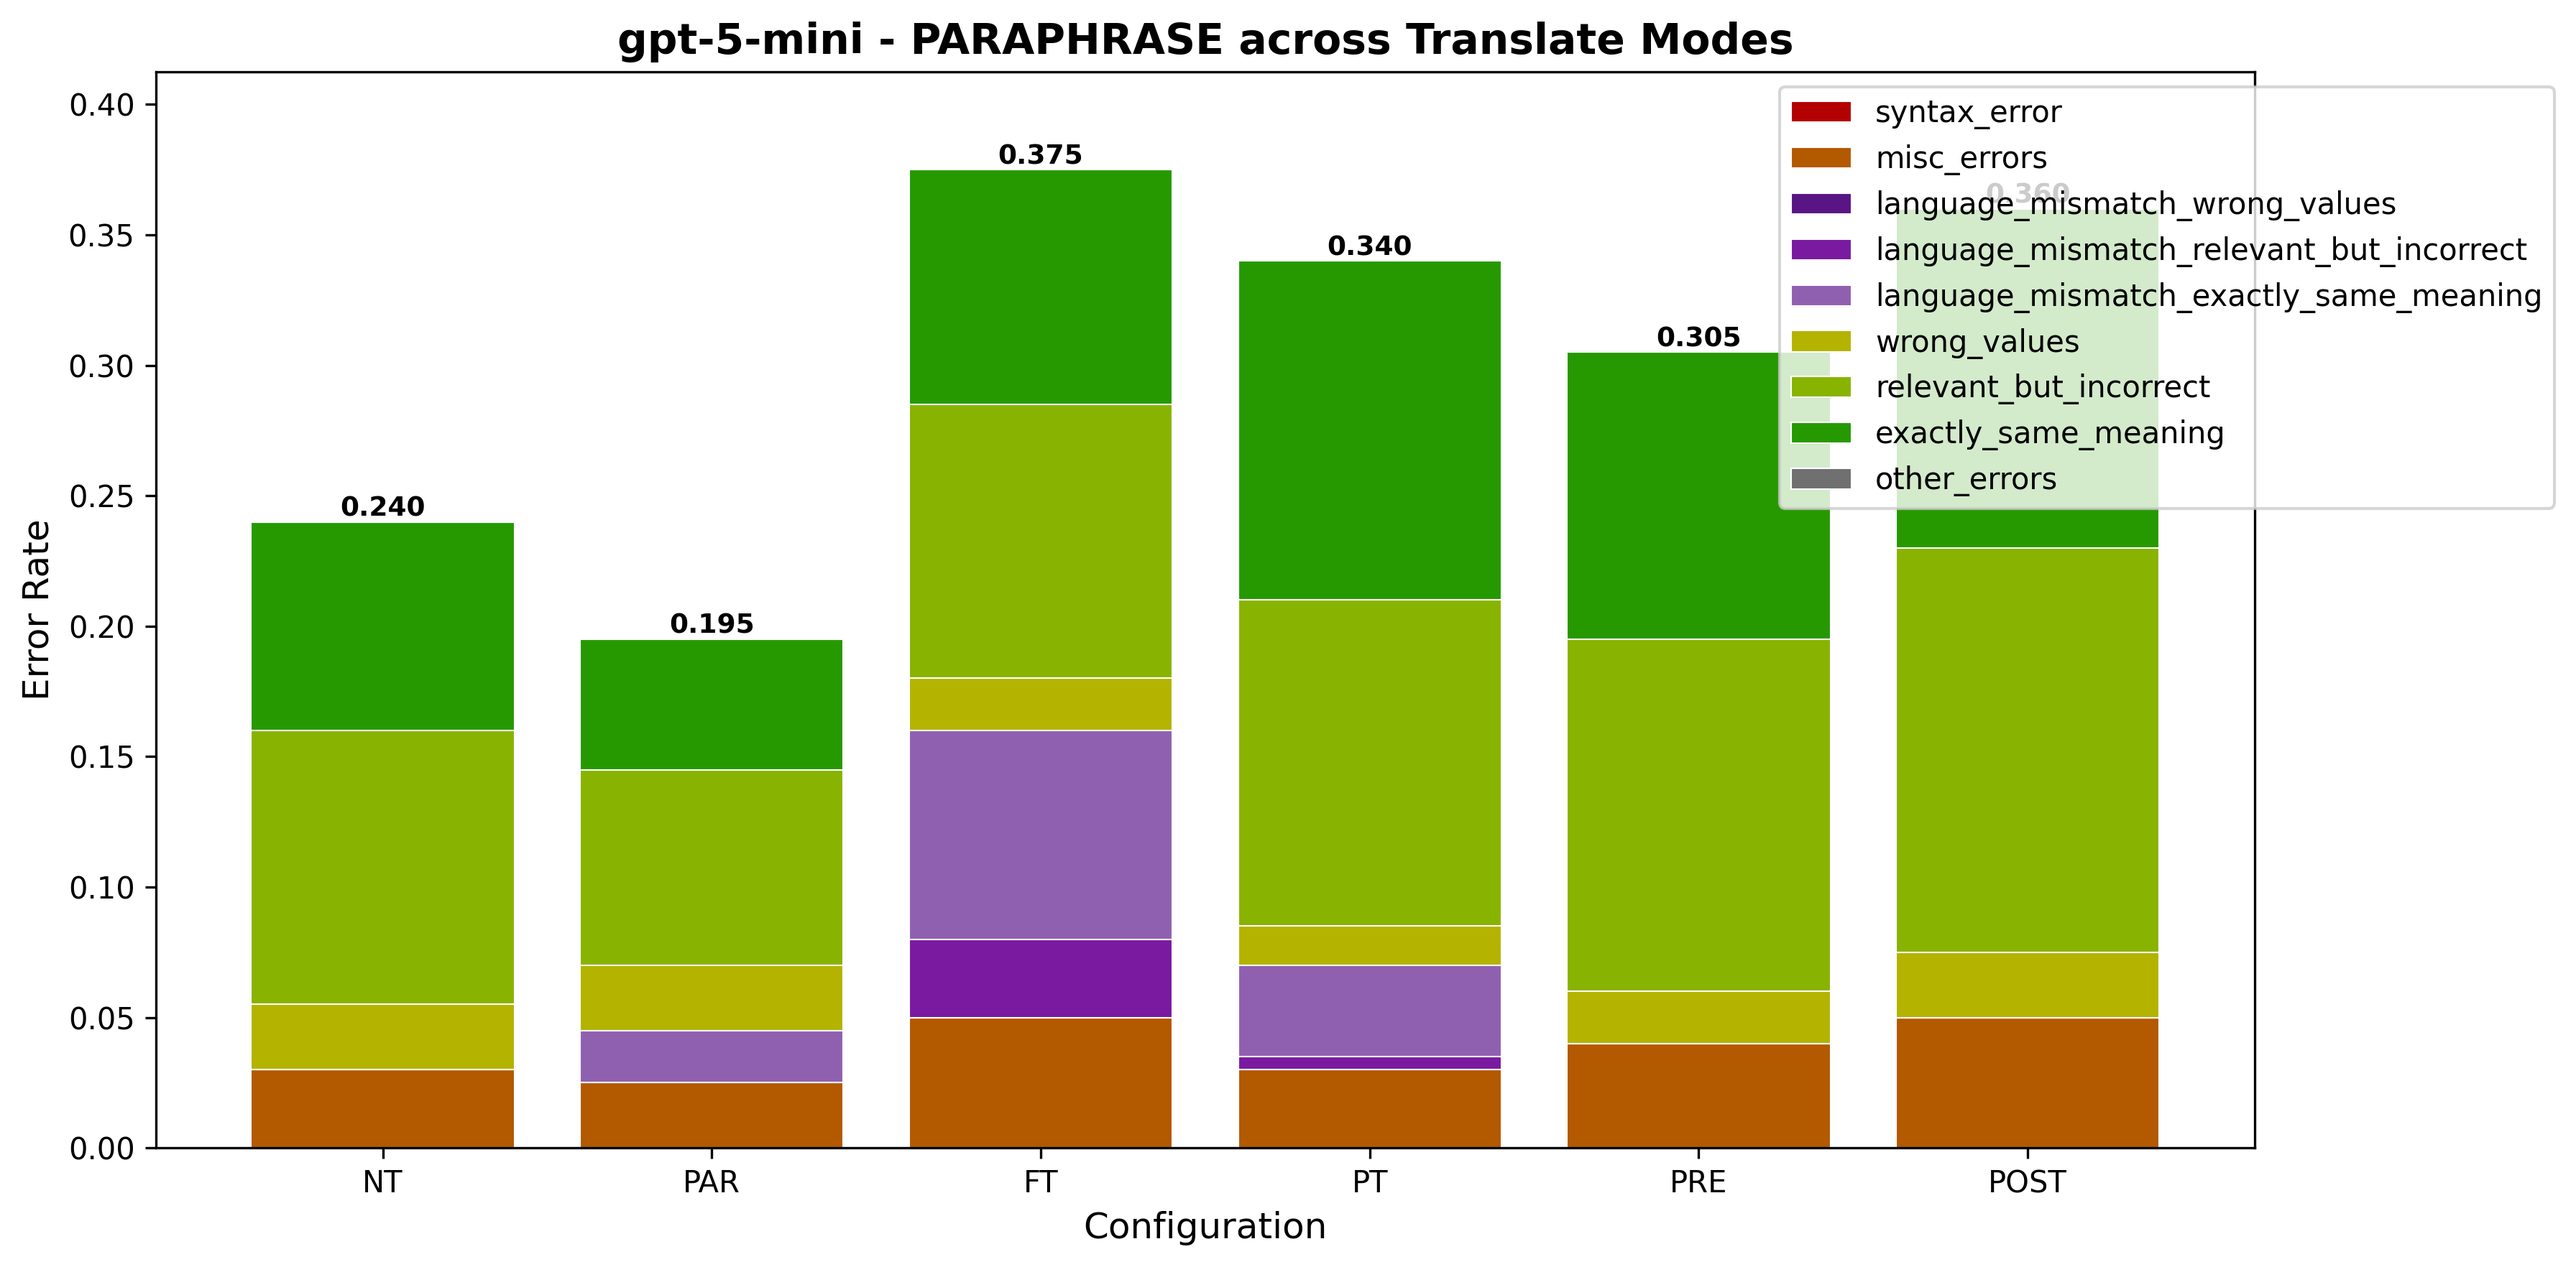
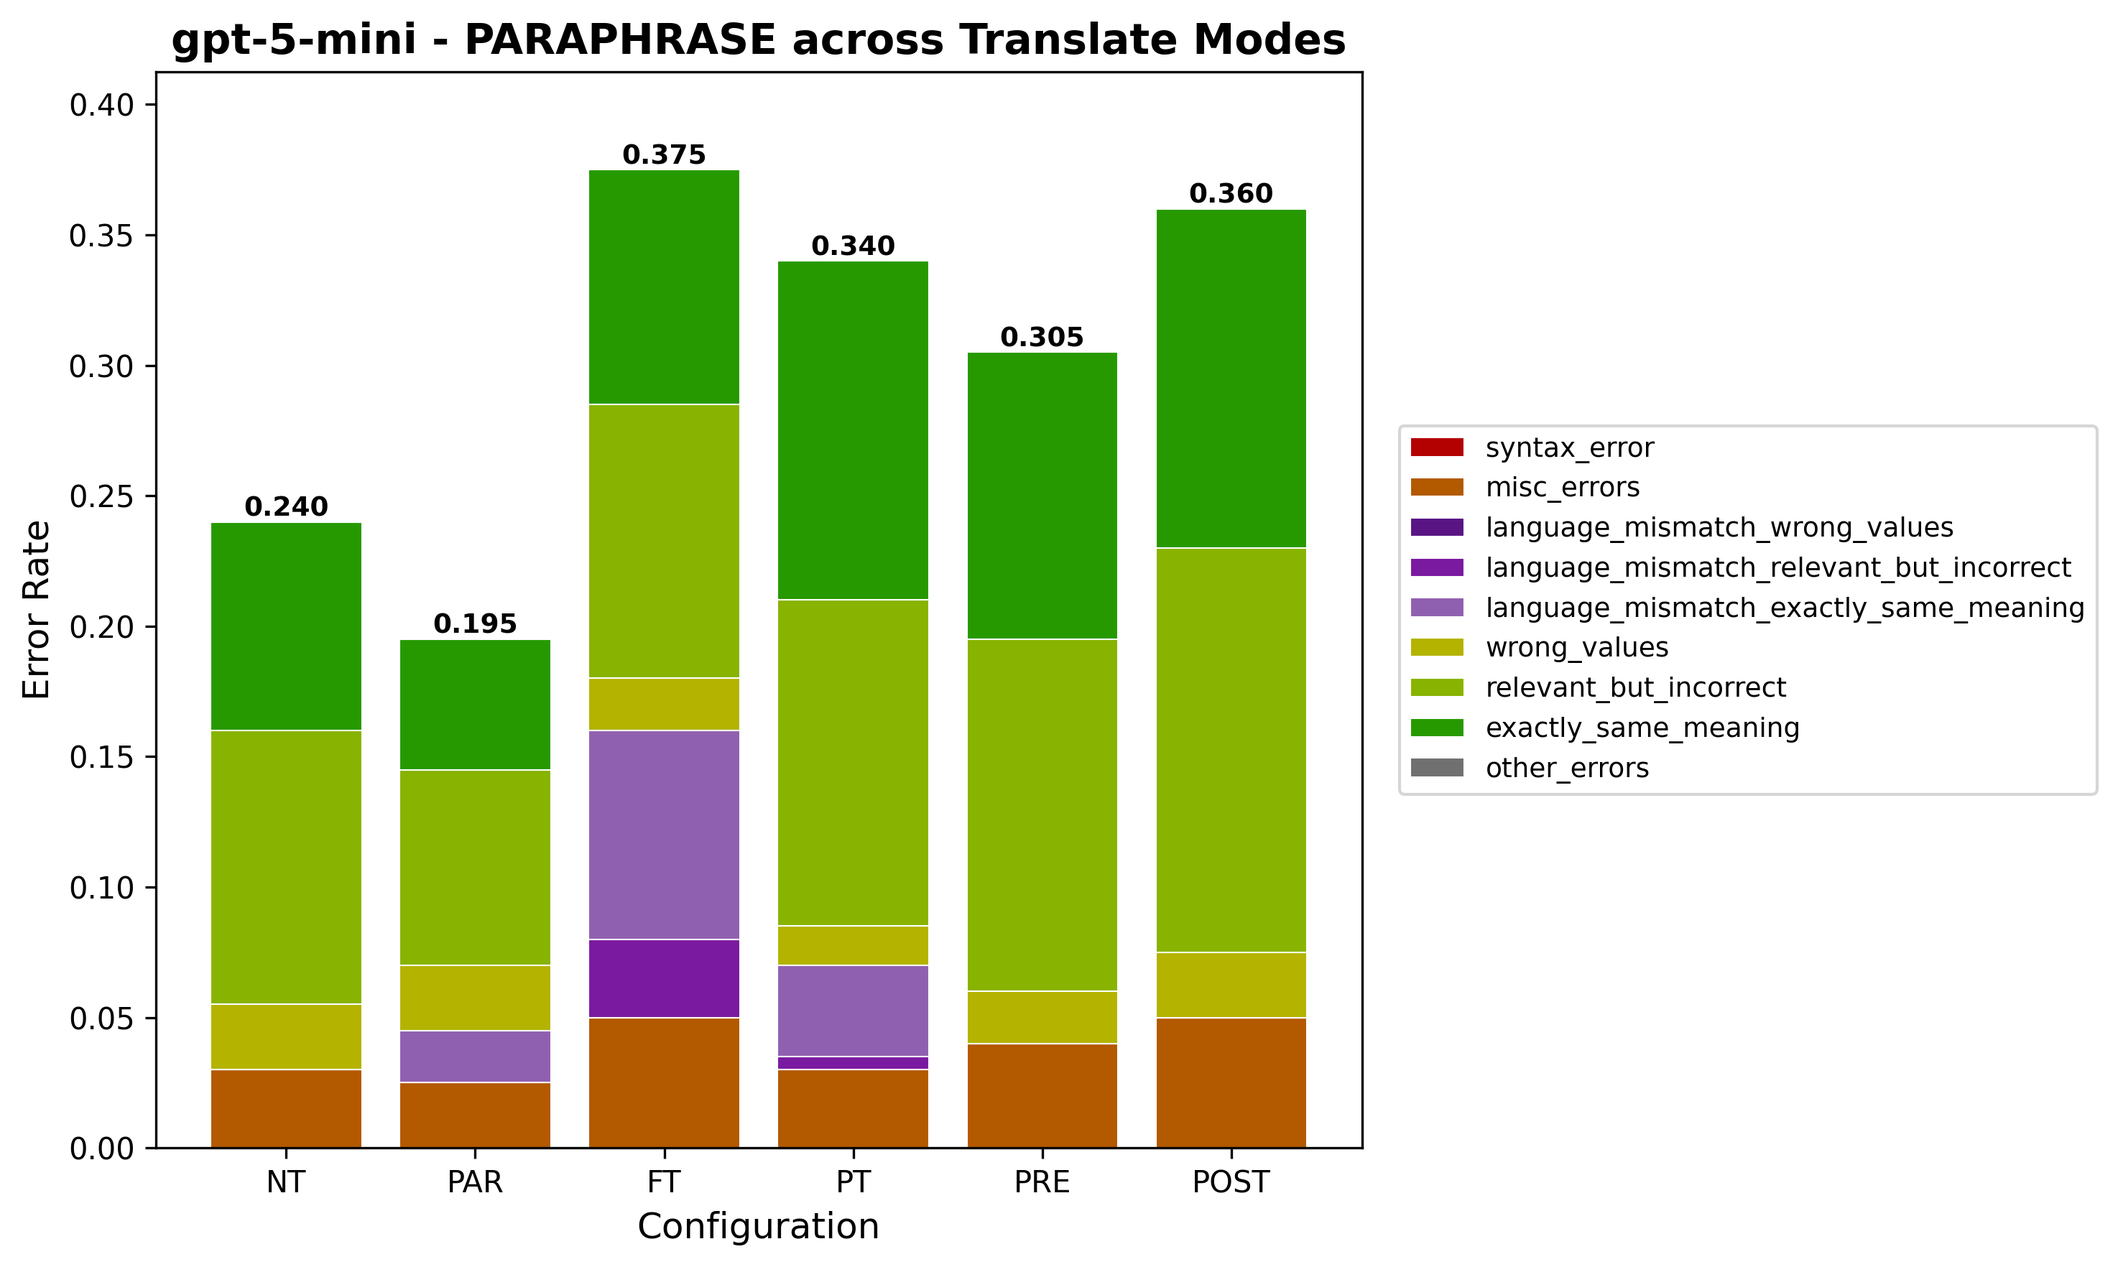
changed the theme of stacked bar

diff --git a/tool_generate_stacked_bar.py b/tool_generate_stacked_bar.py
@@ -203,8 +203,8 @@ def generate_stacked_bar_chart(model_name: str, output_dir: str, result_dir: str
     print(f"\nError distribution for model '{model_name}':")
     print(df)
 
-    # Plot stacked bar chart
-    fig, ax = plt.subplots(figsize=(12, 6))
+    # Plot stacked bar chart (reduced width to accommodate legend)
+    fig, ax = plt.subplots(figsize=(10, 6))
 
     # Convert counts to rates by dividing by 200
     df_rate = df / 200.0
@@ -221,7 +221,7 @@ def generate_stacked_bar_chart(model_name: str, output_dir: str, result_dir: str
     totals = df_rate.sum(axis=1).values
 
     # Add total numbers on top of each bar
-    for i, (label, total) in enumerate(zip(bar_labels, totals)):
+    for i, total in enumerate(totals):
         if total > 0:  # Only annotate if there's data
             ax.text(i, total, f'{total:.3f}',
                    ha='center', va='bottom', fontsize=9, fontweight='bold')
@@ -235,7 +235,9 @@ def generate_stacked_bar_chart(model_name: str, output_dir: str, result_dir: str
     ax.set_xlabel('Configuration', fontsize=12)
     ax.set_ylabel('Error Rate', fontsize=12)
     ax.set_title(title, fontsize=14, fontweight='bold')
-    ax.legend(loc='upper right', bbox_to_anchor=(1.15, 1), fontsize=10)
+
+    # Place legend outside plot area on the right with smaller font
+    ax.legend(loc='center left', bbox_to_anchor=(1.02, 0.5), fontsize=9)
 
     # Rotate x-axis labels if there are many bars
     if len(bar_labels) > 10:
